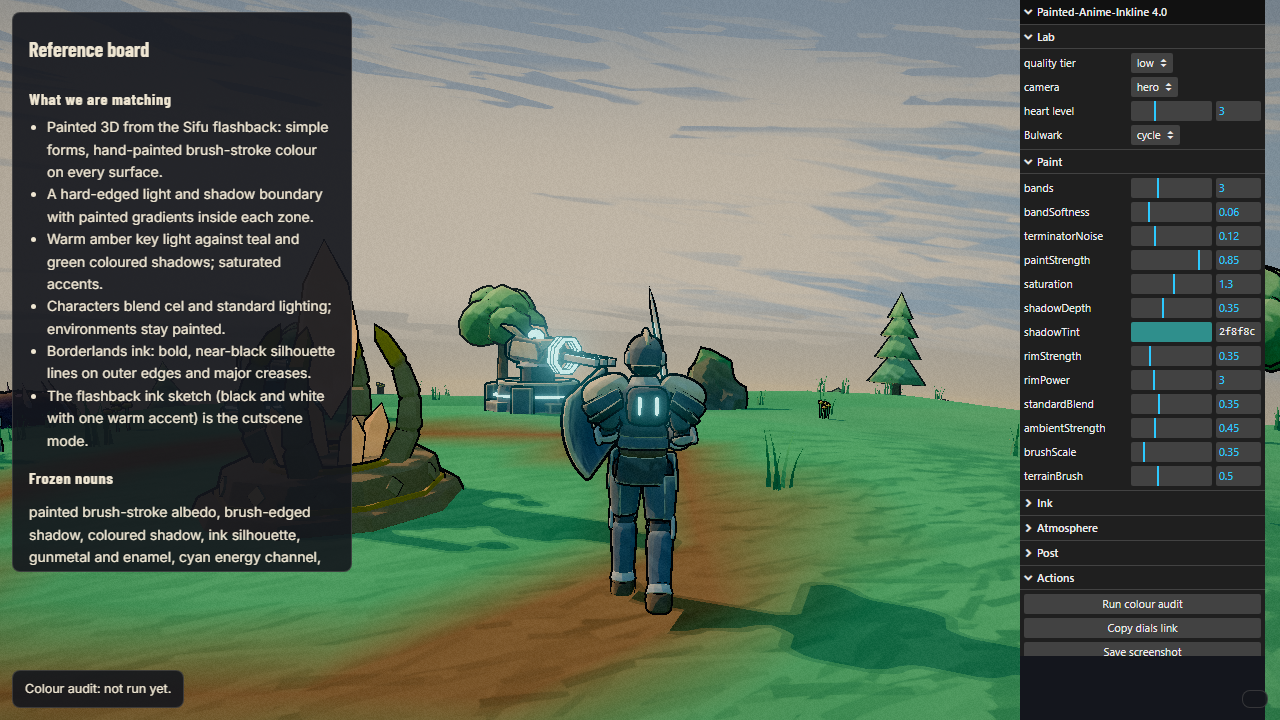
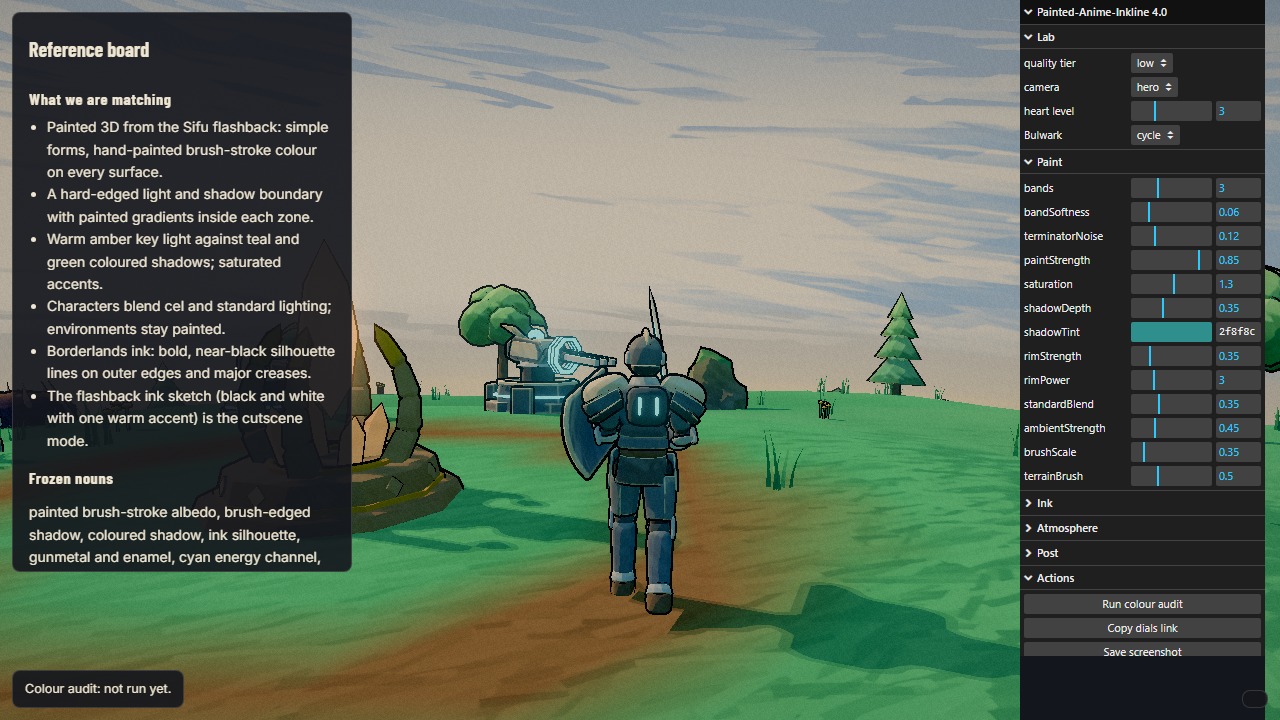
Record the cleave timing and scope the Content count rule
The final spec review found the blueprint breaking its own rules:
- Numbers lacked the Bulwark cleave's 0.85 s swing and 0.34 s strike,
  which src/shared/timings.json holds and the attack clip is keyed to;
  Combat feel now has the row.
- Kit and Content said the Content tables must equal the manifest's
  counts, untrue at M0c (Content plans six tower families, one is
  built). The rule now applies once a milestone's assets are built.
- The checks table adds the new byte-length rule.

docs/evidence/assets/style_lab_hero.png is replaced by the hero frame
from npm run e2e on the branch after it merged PR #4, so the cited
frame shows the current renderer (14 passed; hero audit pass at 1.89
to 1.90 x chance).

Changed region(s): [[0.375, 0.4278, 0.5312, 0.6111], [0.25, 0.4583, 0.3125, 0.5806]]

diff --git a/docs/blueprint.md b/docs/blueprint.md
@@ -220,9 +220,10 @@ Painted-Anime-Inkline 4.0 defaults, and no asset family is mass-produced before 
 The kit is not bought. It is built by script in Blender 5.2.1 LTS from recipes in
 `blender/recipes/`. The asset build finds Blender through the `BLENDER_PATH` environment variable
 (on the owner's machine, `C:\Users\Majied LaFleur\tools\blender-5.2.1\blender.exe`). The manifest is
-`public/assets/manifest.json`, written by `npm run assets` and counted from the exported files. The
-Content tables must equal its counts, a rule kept by hand at each milestone. The current count (M0c)
-is 8 manifest entries: the `brush_strokes` and `ink_noise` textures, and the models `verdant_kit`
+`public/assets/manifest.json`, written by `npm run assets` and counted from the exported files. Once
+a milestone's assets are built, the Content entries for that milestone must equal the manifest's
+counts, a rule kept by hand; later milestones' entries are plans until then. The current count
+(M0c) is 8 manifest entries: the `brush_strokes` and `ink_noise` textures, and the models `verdant_kit`
 (8 pieces), `worldheart` (plinth and 11 stages), `nest`, `bolt_sentinel` (marks I to III), `husk`
 and `bulwark`. Every placeable asset has its root at its ground contact point, so the bind-pose
 minimum Y of each tower mark, each Verdant piece and every other model as a whole is within 5 mm of
@@ -843,6 +844,7 @@ the owner's playtests overrule the bot.
 |---|---|---|
 | Hit-stop, light and heavy | 55 ms and 90 ms | Readable contact without stalling the flow |
 | Strike frame, cleave, twin strike, lob | 0.40, 0.34, 0.42 of the swing | v3 timings |
+| Cleave swing (Bulwark attack) | 0.85 s, strike at 0.34 s | v3: the cleave's 0.40 strike frame above, in seconds; the Bulwark's attack clip is keyed to both times |
 | Commander skill cooldowns | Bulwark ward 24 s, Twinfang dash 16 s, Longsight focus 22 s, Kettle blast 28 s, Emberline field 30 s | v3 |
 | Weapon skill cooldowns | sword cleave 12 s, spear lunge 13 s, twinblade cadence 18 s, carbine railshot 14 s, lobber siege shell 18 s, scepter heat vent 20 s | v3 |
 | Enemy attack multiplier in the campaign | 2.8 | v3 |
@@ -1005,7 +1007,8 @@ Starting values, replaced by the dial values the owner locks at the style check.
 ## Content: planets and families
 
 Every family has an inspection view that shows all of it at once and can open any one member,
-reachable by URL. Counts in these tables must equal `public/assets/manifest.json`.
+reachable by URL. Once a milestone's assets are built, its entries in these tables must equal
+`public/assets/manifest.json` (Kit).
 
 ### Planet themes
 
@@ -1211,7 +1214,7 @@ The order of construction:
 | Bot runs | `npm run bot -- --planets 20` | three policies (competent, idle, reckless) win and lose planets; the competent bot finishes in 25 to 35 simulated minutes | milestone and nightly |
 | Browser smoke | `npm run e2e` | every page boots without console errors; scripted input places a tower and runs a wave; frames saved | every pull request |
 | Captures | `npm run capture` | every inspection page captured for review | milestone |
-| Asset checks | `npm run assets:check` | each model within its family's triangle, bone, texture and ink budget (Performance budgets); no double-sided material; required clips present, with durations and strike times within 1/30 s of `src/shared/timings.json`; every listed file present; placeable roots at ground contact (Kit); fails without a manifest; reads only the numbers the build recorded, never a GLB | every commit, in CI |
+| Asset checks | `npm run assets:check` | each model within its family's triangle, bone, texture and ink budget (Performance budgets); no double-sided material; required clips present, with durations and strike times within 1/30 s of `src/shared/timings.json`; every listed file present, each model at the byte length the manifest records; placeable roots at ground contact (Kit); fails without a manifest; reads only the numbers the build recorded, never a GLB | every commit, in CI |
 | Performance | `npm run perf` | frame time along a fixed camera path per tier on the development laptop | milestone |
 | Blueprint gate | `blueprint.js check docs/blueprint.md --gate` | this document is complete | every commit |
 | Agent play | the built-in browser | the agent plays the change and attaches frames | every change |
